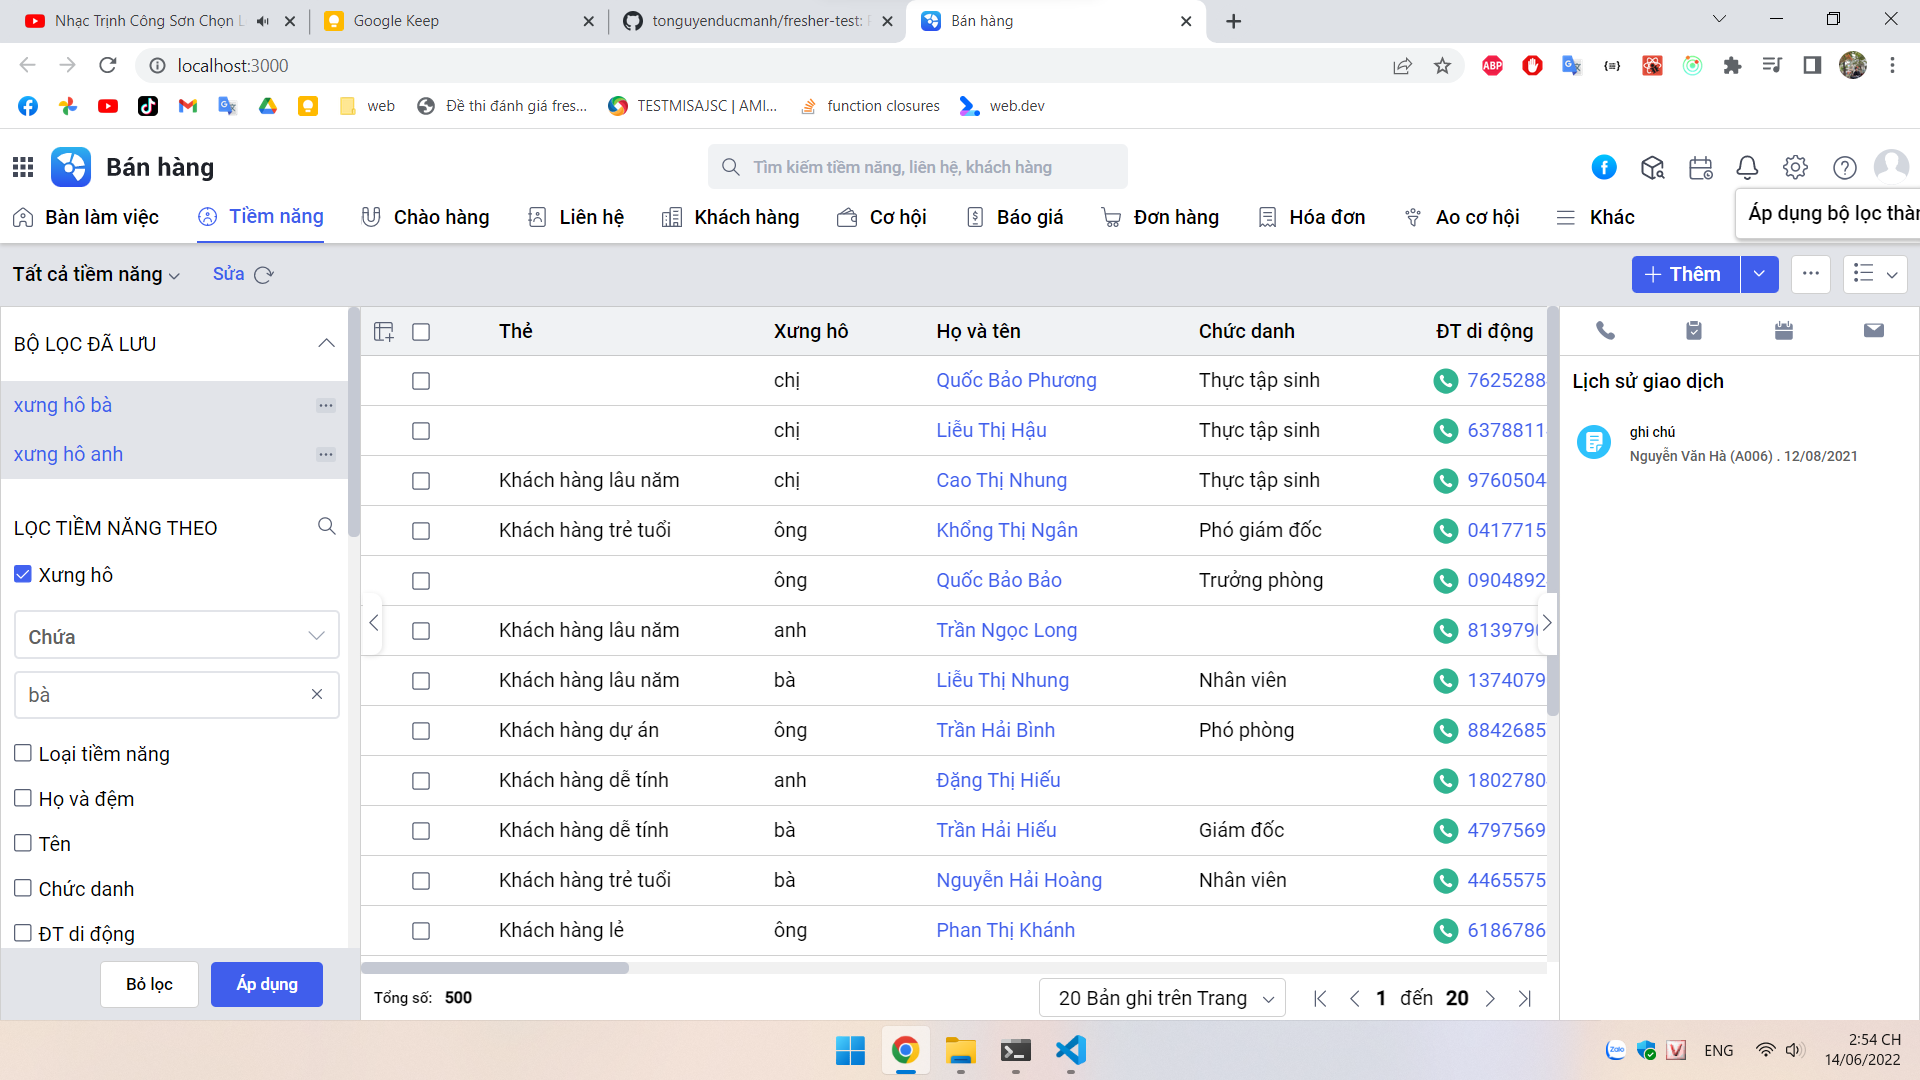
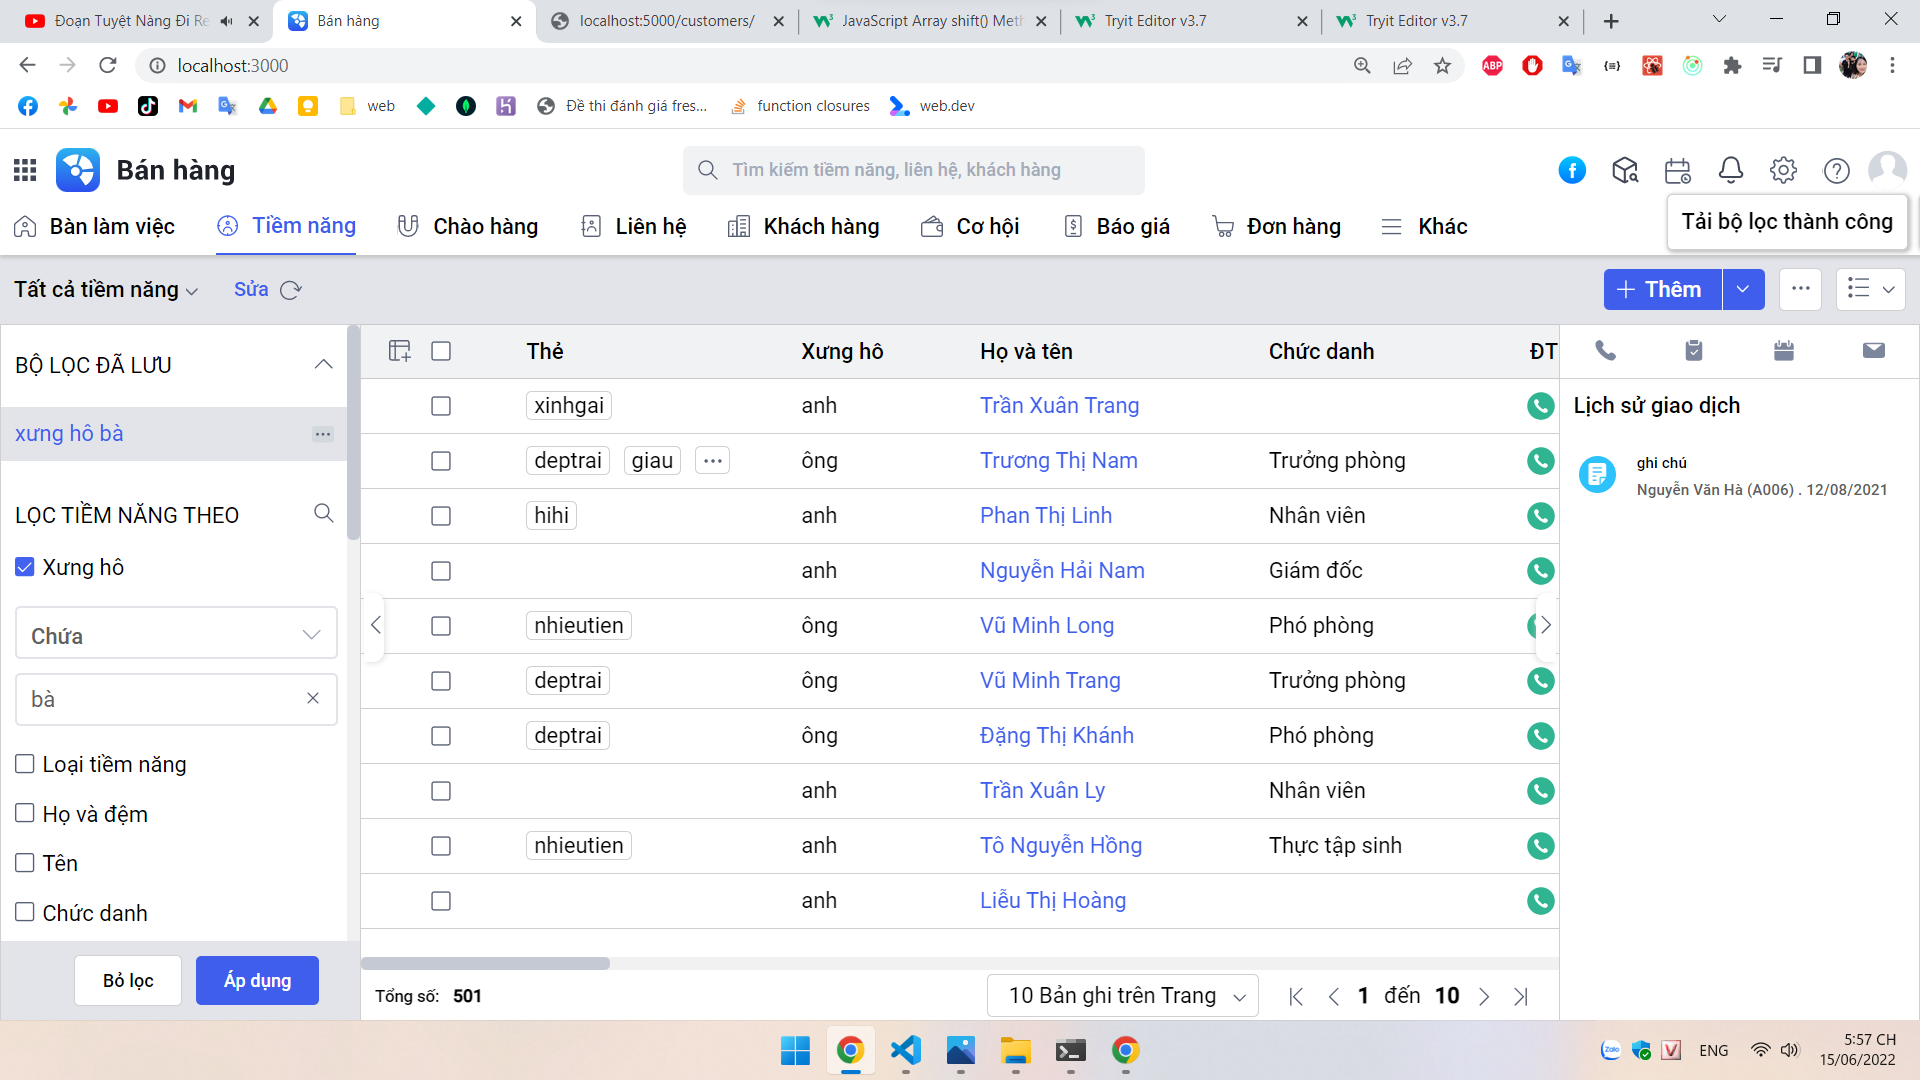
thêm tính năng sửa thẻ
thêm sửa thẻ trong trường hợp chưa có thẻ, có 1 thẻ trở lên,...

diff --git a/client/src/components/EditBody/The/The.module.css b/client/src/components/EditBody/The/The.module.css
@@ -41,39 +41,19 @@
     background-image: url(../../../images/icon_collection.svg);
 }
 
-
-.thongTin{
+.theTag{
+    height: auto;
+}
+.theTagContainer{
+    margin-left: -500px;
     display: flex;
-    justify-content: space-between;
     align-items: center;
-    padding-bottom: var(--padding);
 }
-
-.thongTinTitle{
-    position: relative;
-    color: var(--grayDark);
-    position: relative;
-    font-weight: 500;
+.theTagContainer span{
+    margin-right: var(--padding);
 }
-
-.thongTinTitleWarning::before{
-    position: absolute;
-    color: var(--red);
-    content: '*';
-    z-index: 1;
-    width: var(--icon-small);
-    height: var(--icon-small);
-    right: -20px;
-    
-}
-
-.thongTinInputFather{
-    display:flex;
-    flex-direction: column;
-    position: relative;
-}
-
-.thongTinInput{
+.theTagInput{
+    margin-left: var(--padding);
     font-weight: 500;
     color: var(--grayDark);
     font-size: 1rem;
@@ -82,59 +62,93 @@
     border: SOLID var(--grayLight);
     border-width: 1.8px;
     border-radius: 4px;
-    width: 400px;
+    width: 200px;
     padding: var(--padding) calc(var(--padding)*1.8);
 }
-
-
-.thongTinInput:focus{
+.theTagInput:focus{
     border: 2px solid var(--blue);
 }
 
-.thongTinInput:disabled{
-    background-color: var(--grayLight);
-}
-
-.thongtinMustHave{
-    font-weight: 500;
-}
-
-.thongtinAtoZ{
-    font-weight: 500;
-}
-.thonngTinWarning{
-    border: SOLID var(--red);
-    border-width: 1.8px;
-}
-
-.thonngTinWarningText{
-    margin-left: var(--padding);
+.theTagHidden{
     display: none;
-    margin-top: var(--padding);
-    color: var(--red);
-    font-size: .9rem;
-    font-weight: 500;
+}
+.theTagIcon::before{
+    background-position: -160px 0px;
 }
 
-.clearInput{
-    display: none;
-    position: absolute;
-    right: 10px;
-    top:10px;
+.iconInfo{
     width: var(--icon-small);
     height: var(--icon-small);
 }
 
-.clearInput:hover{
+.iconInfo:hover{
     cursor: pointer;
 }
 
-.clearInput::before{
+.iconInfo::before{
+    margin-left: 10px;
     position: absolute;
     content: '';
     z-index: 1;
     width: var(--icon-small);
     height: var(--icon-small);
-    background-image: url(../../../images/icon_collection.svg);
-    background-position: -80px -16px;
+}
+
+
+.iconToolTip{
+    display: none;
+    width: 150px;
+    position: absolute;
+    background-color: var(--grayDark);
+    color: #fff;
+    text-align: center;
+    border-radius: 6px;
+    padding: 5px 0;
+    z-index: 1;
+    bottom: 150%;
+    left: 50%;
+    margin-left: -65px;
+}
+
+.iconToolTip::after{
+    content: "";
+    position: absolute;
+    top: 100%;
+    left: 50%;
+    margin-left: -5px;
+    border-width: 5px;
+    border-style: solid;
+    border-color: var(--grayDark) transparent transparent transparent;
+}
+
+.iconInfo:hover .iconToolTip{
+    display: block;
+}
+
+.theTagTitle{
+    font-weight: 500;
+    margin-left: var(--padding);
+    cursor: pointer;
+}
+.theTagItemGroup{
+    margin-left: var(--padding);
+    display: flex;
+    align-items: center;
+}
+.theTagItem{
+    border: var(--border);
+    border-radius: var(--boderRadius);
+    margin-right: var(--padding);
+    background-color: var(--white);
+    padding: calc(var(--padding) * 0.7) calc(var(--padding)*2);
+}
+.theTagItem:first{
+    margin-left: 20px;
+}
+.theTagItemAddMore{
+    height: 20px;
+    margin-left: -10px;
+}
+.theTagItemAddMore::before{
+    background-position: -32px -16px;
 }

diff --git a/client/src/components/EditBody/The/The.js b/client/src/components/EditBody/The/The.js
@@ -1,0 +1,45 @@
+import styles from './The.module.css'
+import { HandleTheClick } from './HandleTheClick/HandleTheClick'
+import { HandleAddMoreButtonClick } from './HandleTheClick/HandleAddMoreButtonClick'
+export const The = ({editCustomer})=>{
+
+
+    return(
+        <span className={styles.theTag}>
+        {   editCustomer.the.length === 1 && editCustomer.the[0] === '' &&
+            <span className={styles.theTagContainer}>
+                <span className={`${styles.icon} ${styles.theTagIcon} ${styles.iconInfo}`}>
+                    <span className={styles.iconToolTip}>Nhập nhiều thẻ <br></br>theo cú pháp #the</span>
+                </span>
+                <span className={styles.theTagTitle}
+                    onClick={(e)=>HandleTheClick(e)}
+                >Thêm thẻ</span>
+                <input className={`${styles.theTagInput} ${styles.theTagHidden}`} 
+                    placeholder='Nhập thẻ' id='theTagInput'
+                />
+            </span>
+        }
+        {   editCustomer.the.length > 0 && editCustomer.the[0] !== '' &&
+            <span className={styles.theTagContainer}>
+                <span className={`${styles.icon} ${styles.theTagIcon} ${styles.iconInfo}`}>
+                    <span className={styles.iconToolTip}>Nhập nhiều thẻ <br></br>theo cú pháp #the</span>
+                </span>
+                <span className={styles.theTagItemGroup}>
+                <span >
+                { editCustomer.the.map((theCon)=>(
+                    <span key={theCon} className={styles.theTagItem}>{theCon}</span> 
+                    ))}
+                </span>
+                <span className={`${styles.icon} ${styles.theTagItem} ${styles.theTagItemAddMore}`}
+                    onClick={(e)=>HandleAddMoreButtonClick(e)}
+                ></span>
+                </span>
+                <input className={`${styles.theTagInput} ${styles.theTagHidden}`} 
+                    placeholder='Nhập thẻ' id='theTagInput' 
+                    defaultValue={editCustomer.the.join('#')}
+                />
+            </span>
+        }
+</span>
+    )
+}

diff --git a/client/src/components/EditBar/HandleSave/HandleSave.js b/client/src/components/EditBar/HandleSave/HandleSave.js
@@ -72,6 +72,7 @@ export const HandleSave = (dispatch,anhCu) =>{
                 const moTa = document.getElementById('moTaEdit').value
                 const dungChungCheck = document.getElementById('dungChungEdit')
                 const loaiTiemNang = document.getElementById('loaiTiemNangEdit').children
+                const theTagInput = document.getElementById('theTagInput').value
                 
     
                 const data = new FormData()
@@ -145,7 +146,26 @@ export const HandleSave = (dispatch,anhCu) =>{
                 if(dungChungCheck.classList.contains(stylesThree.iconChecked)){
                     dungChungBtn = true
                 }
+                
                 data.append('dungChung', dungChungBtn)
+                
+                let the = theTagInput.split('#')
+
+                //trường hợp có nhiều hơn 1 thẻ thì loại bỏ thẻ rỗng ở đầu đi, do thẻ # sinh ra
+                if(the.length>1){
+                    if(the[0] === ''){
+                        the.shift()
+                    }
+                }
+
+                for(let k=0; k< the.length; k++){
+                    if(the[k] !==''){
+                        data.append('the[]', the[k])
+                    }else{
+                        data.append('the[]', '')
+                    }
+                }
+
                 dispatch(editCustomer(data))
                 dispatch(resetLocation())
                 

diff --git a/client/src/components/EditBody/EditBody.js b/client/src/components/EditBody/EditBody.js
@@ -35,6 +35,8 @@ import { Input } from "./AutoComplete/FormValidate/Input";
 import { ClearInputValue } from "./AutoComplete/FormValidate/ClearInputValue";
 import { ClearMotaValue } from "./AutoComplete/FormValidate/ClearMotaValue";
 
+import { The } from "./The/The";
+
 const EditBody = () =>{
     const editCustomer = useSelector(state => state.tempCustomer.editCustomer)
     const image = `url(http://localhost:5000/${editCustomer.anh})`
@@ -76,11 +78,12 @@ const EditBody = () =>{
                                    backgroundImage: urlImage,
                                    backgroundPosition : 0,
                                    backgroundSize: 'cover'
-                               }
-                               : {
-                                display: 'block'
-                            }}
-                            ></span>
+                                }
+                                : {
+                                    display: 'block'
+                                }}
+                                ></span>
+                            <The editCustomer={editCustomer}/>
                         </div>
                     </div>
                     <div className={styles.thongTinChung}>

diff --git a/postmanScripts/postman.js b/postmanScripts/postman.js
@@ -23,6 +23,15 @@ var requestOptions = {
   }
   
   pm.variables.set('xungHo', randomXungHo());
+
+  function randomThe(){
+    const xungHo = ["deptrai", "xinhgai", "", "nhieutien"
+    ]
+    const the = xungHo[Math.floor(Math.random() * xungHo.length)]
+    return the;
+}
+
+pm.variables.set('the', randomThe());
   
   
   function ramdomPhongBan(){

diff --git a/client/src/components/EditBody/The/HandleTheClick/HandleAddMoreButtonClick.js b/client/src/components/EditBody/The/HandleTheClick/HandleAddMoreButtonClick.js
@@ -1,0 +1,8 @@
+import styles from '../The.module.css'
+
+export const HandleAddMoreButtonClick = (e)=>{
+    const theTagInput = document.getElementById('theTagInput')
+    e.target.parentElement.children[0].classList.add(styles.theTagHidden)
+    e.target.classList.add(styles.theTagHidden)
+    theTagInput.classList.remove(styles.theTagHidden)
+}

diff --git a/client/src/components/EditBody/The/HandleTheClick/HandleTheClick.js b/client/src/components/EditBody/The/HandleTheClick/HandleTheClick.js
@@ -1,0 +1,7 @@
+import styles from '../The.module.css'
+
+export const HandleTheClick = (e)=>{
+    const theTagInput = document.getElementById('theTagInput')
+    e.target.classList.add(styles.theTagHidden)
+    theTagInput.classList.remove(styles.theTagHidden)
+}

diff --git a/client/src/features/customers/customersSlice.js b/client/src/features/customers/customersSlice.js
@@ -507,6 +507,7 @@ export const editCustomerSlice = createSlice({
             dtcoquan: '',
             dtkhac: '',
             loaitiemnang: '',
+            the: '',
             nguongoc: '',
             khonggoidien: '',
             khongguiemail: '',

diff --git a/server/controllers/customers.js b/server/controllers/customers.js
@@ -488,6 +488,7 @@ export const editCustomer = async (req,res) => {
         mavung: req.body.maVung,
         mota: req.body.moTa,
         loaitiemnang: req.body.loaiTiemNang,
+        the: req.body.the,
         dungchung: req.body.dungChung
 
     }

diff --git a/client/src/components/CreateBody/XemNgay/XemNgay.module.css b/client/src/components/CreateBody/XemNgay/XemNgay.module.css
@@ -19,7 +19,7 @@
     --iconUp :-320px -32px;
     --grayDark: #616161;
     --gray: #9ba3b2;
-    --grayLight: #e9e2e2;
+    --grayLight: #e2e4e9;
     --red: #ff3b3b;
 }
 .xemNgayText{

diff --git a/client/src/components/CreateBody/CreateBody.module.css b/client/src/components/CreateBody/CreateBody.module.css
@@ -19,7 +19,7 @@
     --iconUp :-320px -32px;
     --grayDark: #616161;
     --gray: #9ba3b2;
-    --grayLight: #e9e2e2;
+    --grayLight: #e2e4e9;
     --red: #ff3b3b;
 }
 .icon{

diff --git a/client/src/components/EditBody/EditBody.module.css b/client/src/components/EditBody/EditBody.module.css
@@ -19,7 +19,7 @@
     --iconUp :-320px -32px;
     --grayDark: #616161;
     --gray: #9ba3b2;
-    --grayLight: #e9e2e2;
+    --grayLight: #e2e4e9;
     --red: #ff3b3b;
 }
 .icon{
